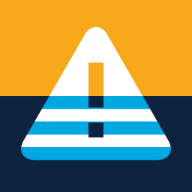
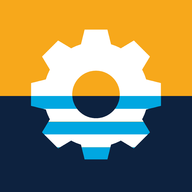
Additional branding changes

Changed region(s): [[0.0938, 0.125, 0.9062, 0.8438]]

diff --git a/ClientApp/public/index.html b/ClientApp/public/index.html
@@ -10,12 +10,7 @@
     <link rel="icon" type="image/png" sizes="16x16" href="/favicon-16x16.png">
     <link rel="manifest" href="/site.webmanifest">
     
-    <title>MKE Alerts</title>
-    <style>
-      thead.hidden_header tr[role="row"] {
-        display: none;
-      }
-    </style>
+    <title>MKE Tools</title>
     <script src="https://apis.google.com/js/platform.js" async defer></script>
 
     <script>
@@ -46,7 +41,7 @@
       function gtag(){dataLayer.push(arguments);}
       gtag('js', new Date());
 
-      gtag('config', window.GA_TRACKING_ID, { app_name: 'Monitive Web App', send_page_view: false });
+      gtag('config', window.GA_TRACKING_ID, { app_name: 'MKE Tools', send_page_view: false });
     </script>
   </head>
   <body>

diff --git a/ClientApp/src/custom.scss b/ClientApp/src/custom.scss
@@ -136,3 +136,7 @@ $enable-gradients: true;
   margin-bottom: 8px;
   border: 1px solid #333;
 }
+
+thead.hidden_header tr[role="row"] {
+  display: none;
+}
